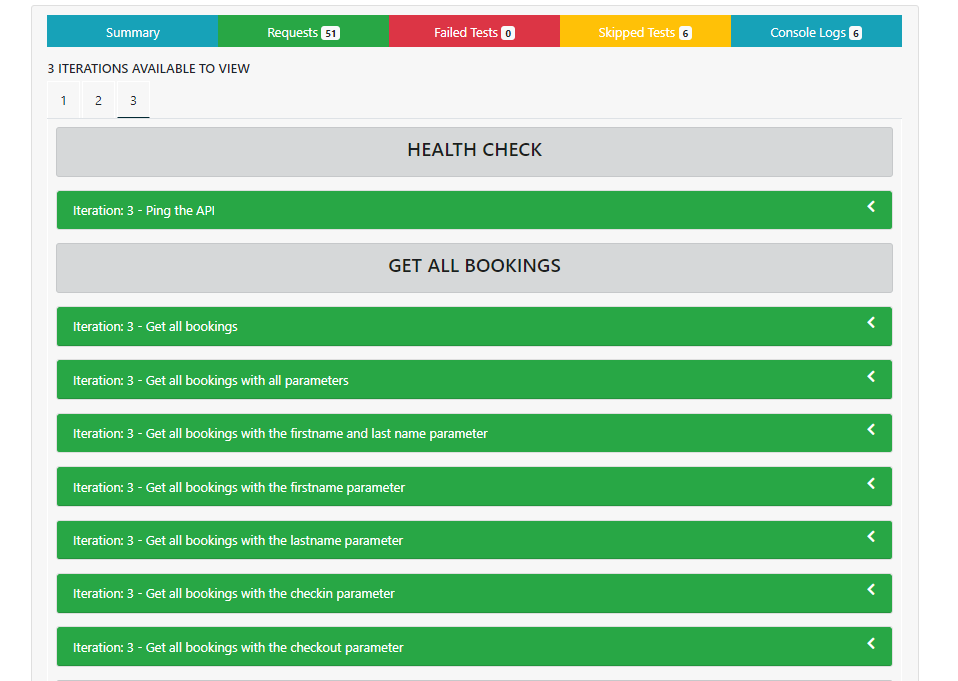
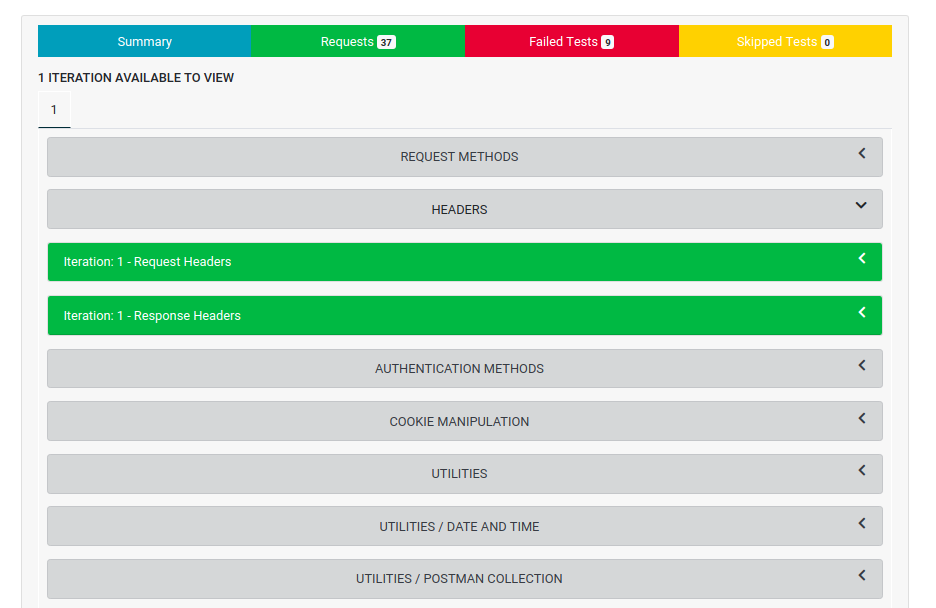
The folder sections in the request tab are now collapsible

diff --git a/README.md b/README.md
@@ -36,7 +36,7 @@ A [Newman](https://github.com/postmanlabs/newman) HTML reporter that has been ex
 
 ![Skipped View](./examples/Skipped_View.PNG)
 
-This is the first attempt to expose any `console.log` statements that are really useful to have in your `Requests`. The event from Newman doesn't contain a lot of detail about the request that it was part of and this will involve, in it's current state a horrible hacky fix to map things together. In the meantime, the Postman `pm.info` function provides these for you and can just be added to the `console.log` statement, as workaround. Something like `${pm.info.requestName} | ${pm.info.eventName} | Interation: ${pm.info.iteration + 1}` will log out the missing event information.
+This is the first attempt to expose any `console.log` statements that are really useful to have in your `Requests`. The event from Newman doesn't contain a lot of detail about the request that it was part of and this will involve, in it's current state a horrible hacky fix to map things together. In the meantime, the Postman `pm.info` function provides these for you and can just be added to the `console.log` statement, as workaround. Something like `${pm.info.requestName} | ${pm.info.eventName} | Iteration: ${pm.info.iteration + 1}` will log out the missing event information.
 
 If the collection contains Console Logs, a new tab will appear, that will show all the details. This information is displayed in a similar way that you may have seen on the `Failed Tests` and `Skipped Tests`.
 

diff --git a/CHANGELOG.md b/CHANGELOG.md
@@ -7,6 +7,14 @@ and this project adheres to [Semantic Versioning](http://semver.org/).
 
 -----------------------------------------------------------------------
 
+## [1.5.1] - 2019-02-17
+
+### Changed
+
+- The folder sections in the request tab are now collapsible 
+
+-----------------------------------------------------------------------
+
 ## [1.5.0] - 2019-02-15
 
 ### Added
